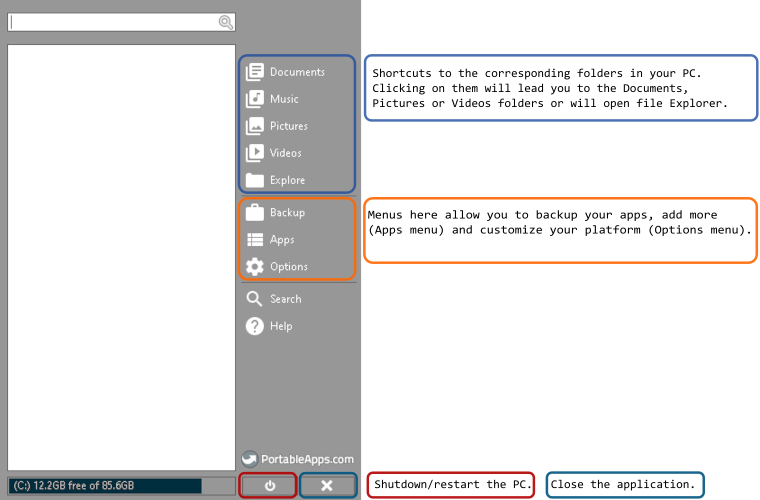
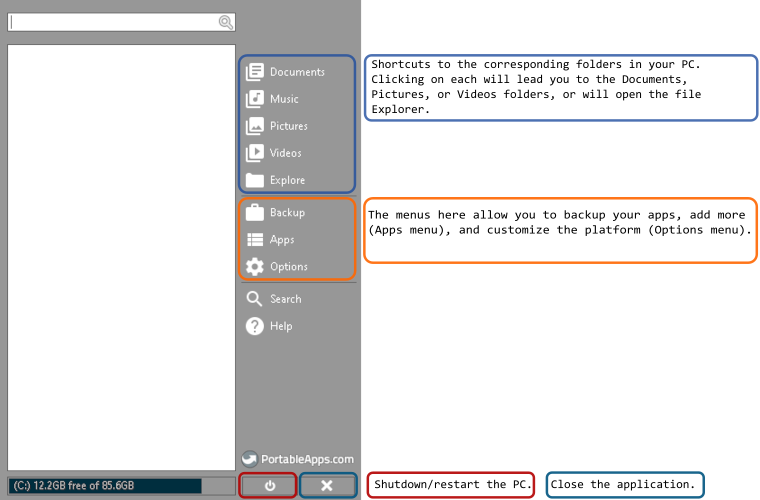
Spelling corrections. (#3)

Changed region(s): [[0.4842, 0.12, 0.9382, 0.24], [0.4842, 0.42, 0.9987, 0.48]]

diff --git a/UserGuide.md b/UserGuide.md
@@ -3,25 +3,25 @@
 ## About this document
 
 * Mock guide for training purpose.
-* Assumed audience of users who are familiar with various type of software and can download and install an application without getting help.
+* Assumed audience of users who are familiar with various type of software, and can download and install an application without getting help.
 
 ## The application
 
-PortableApps is a an open source and free application providing the opportunity to use various tools without the need of installing them on your PC or laptop. All you need is a flash drive and you can take your most favorite apps in your pocket everywhere you go.
+PortableApps is a an open-source, free application that provides the opportunity to use various tools without the need of installing them on your PC or laptop. All you need is a flash drive, and you can take your most favorite apps in your pocket everywhere you go.
 
 ## License
 
-PortableApps is distributed as Free / Open Source (GPL, some MIT, some CC images, trademarks and trade dress not included).
+PortableApps is distributed as Free/Open Source (GPL, some MIT, some CC images, trademarks, and trade dress not included).
 
 >**Note**:<br>*Some of the published applications may have different license agreements or restrictions specified on each application's page.*
 
 ## Getting started
 
-When ran for the first time PortableApps will show up a window with available apps grouped by category. You may browse and install the desired apps right away or click Cancel to close the window. It will be shown again when the platform is restarted.
+When run for the first time, PortableApps will show a window with available apps grouped by category. You may browse and install a desired app right away, or click Cancel to close the window. It will be shown again when the platform is restarted.
 
 ### Menus overview
 
-The interface is divided on two sections. On the left there is a list with the installed portable applications and on the right are the menus of the platform application.
+The interface is divided into two sections. On the left is a list of the installed portable applications; on the right are the menus of the platform application.
 
 #### Platform menus
 
@@ -30,11 +30,11 @@ Platform menus are virtually grouped in sections according to their function.
 | Menu | Description |
 | -------------- | -------------- |
 | Upper section | Shortcuts to folders of your PC. Clicking on each will lead you to the folder with corresponding name. |
-| Middle section | Here is where you can backup your platform, add more apps to it or customize it. Clicking on each menu folder opens a dropdown menu with different options.|
+| Middle section | Here is where you can backup your platform, add more apps to it, or customize it. Clicking on each menu folder opens a dropdown menu with different options.|
 | Lower section | Help and Search. |
 
 ![Menus image](Images/PortableAppMenus.png)
 
 #### Application handling
 
-Hovering over an added application name and right-click opens the context menu with options to run, uninstall or perform other actions related to that app.
+Hovering over an added application name and right-click opens the context menu with options to run, uninstall, or perform other actions related to that app.
